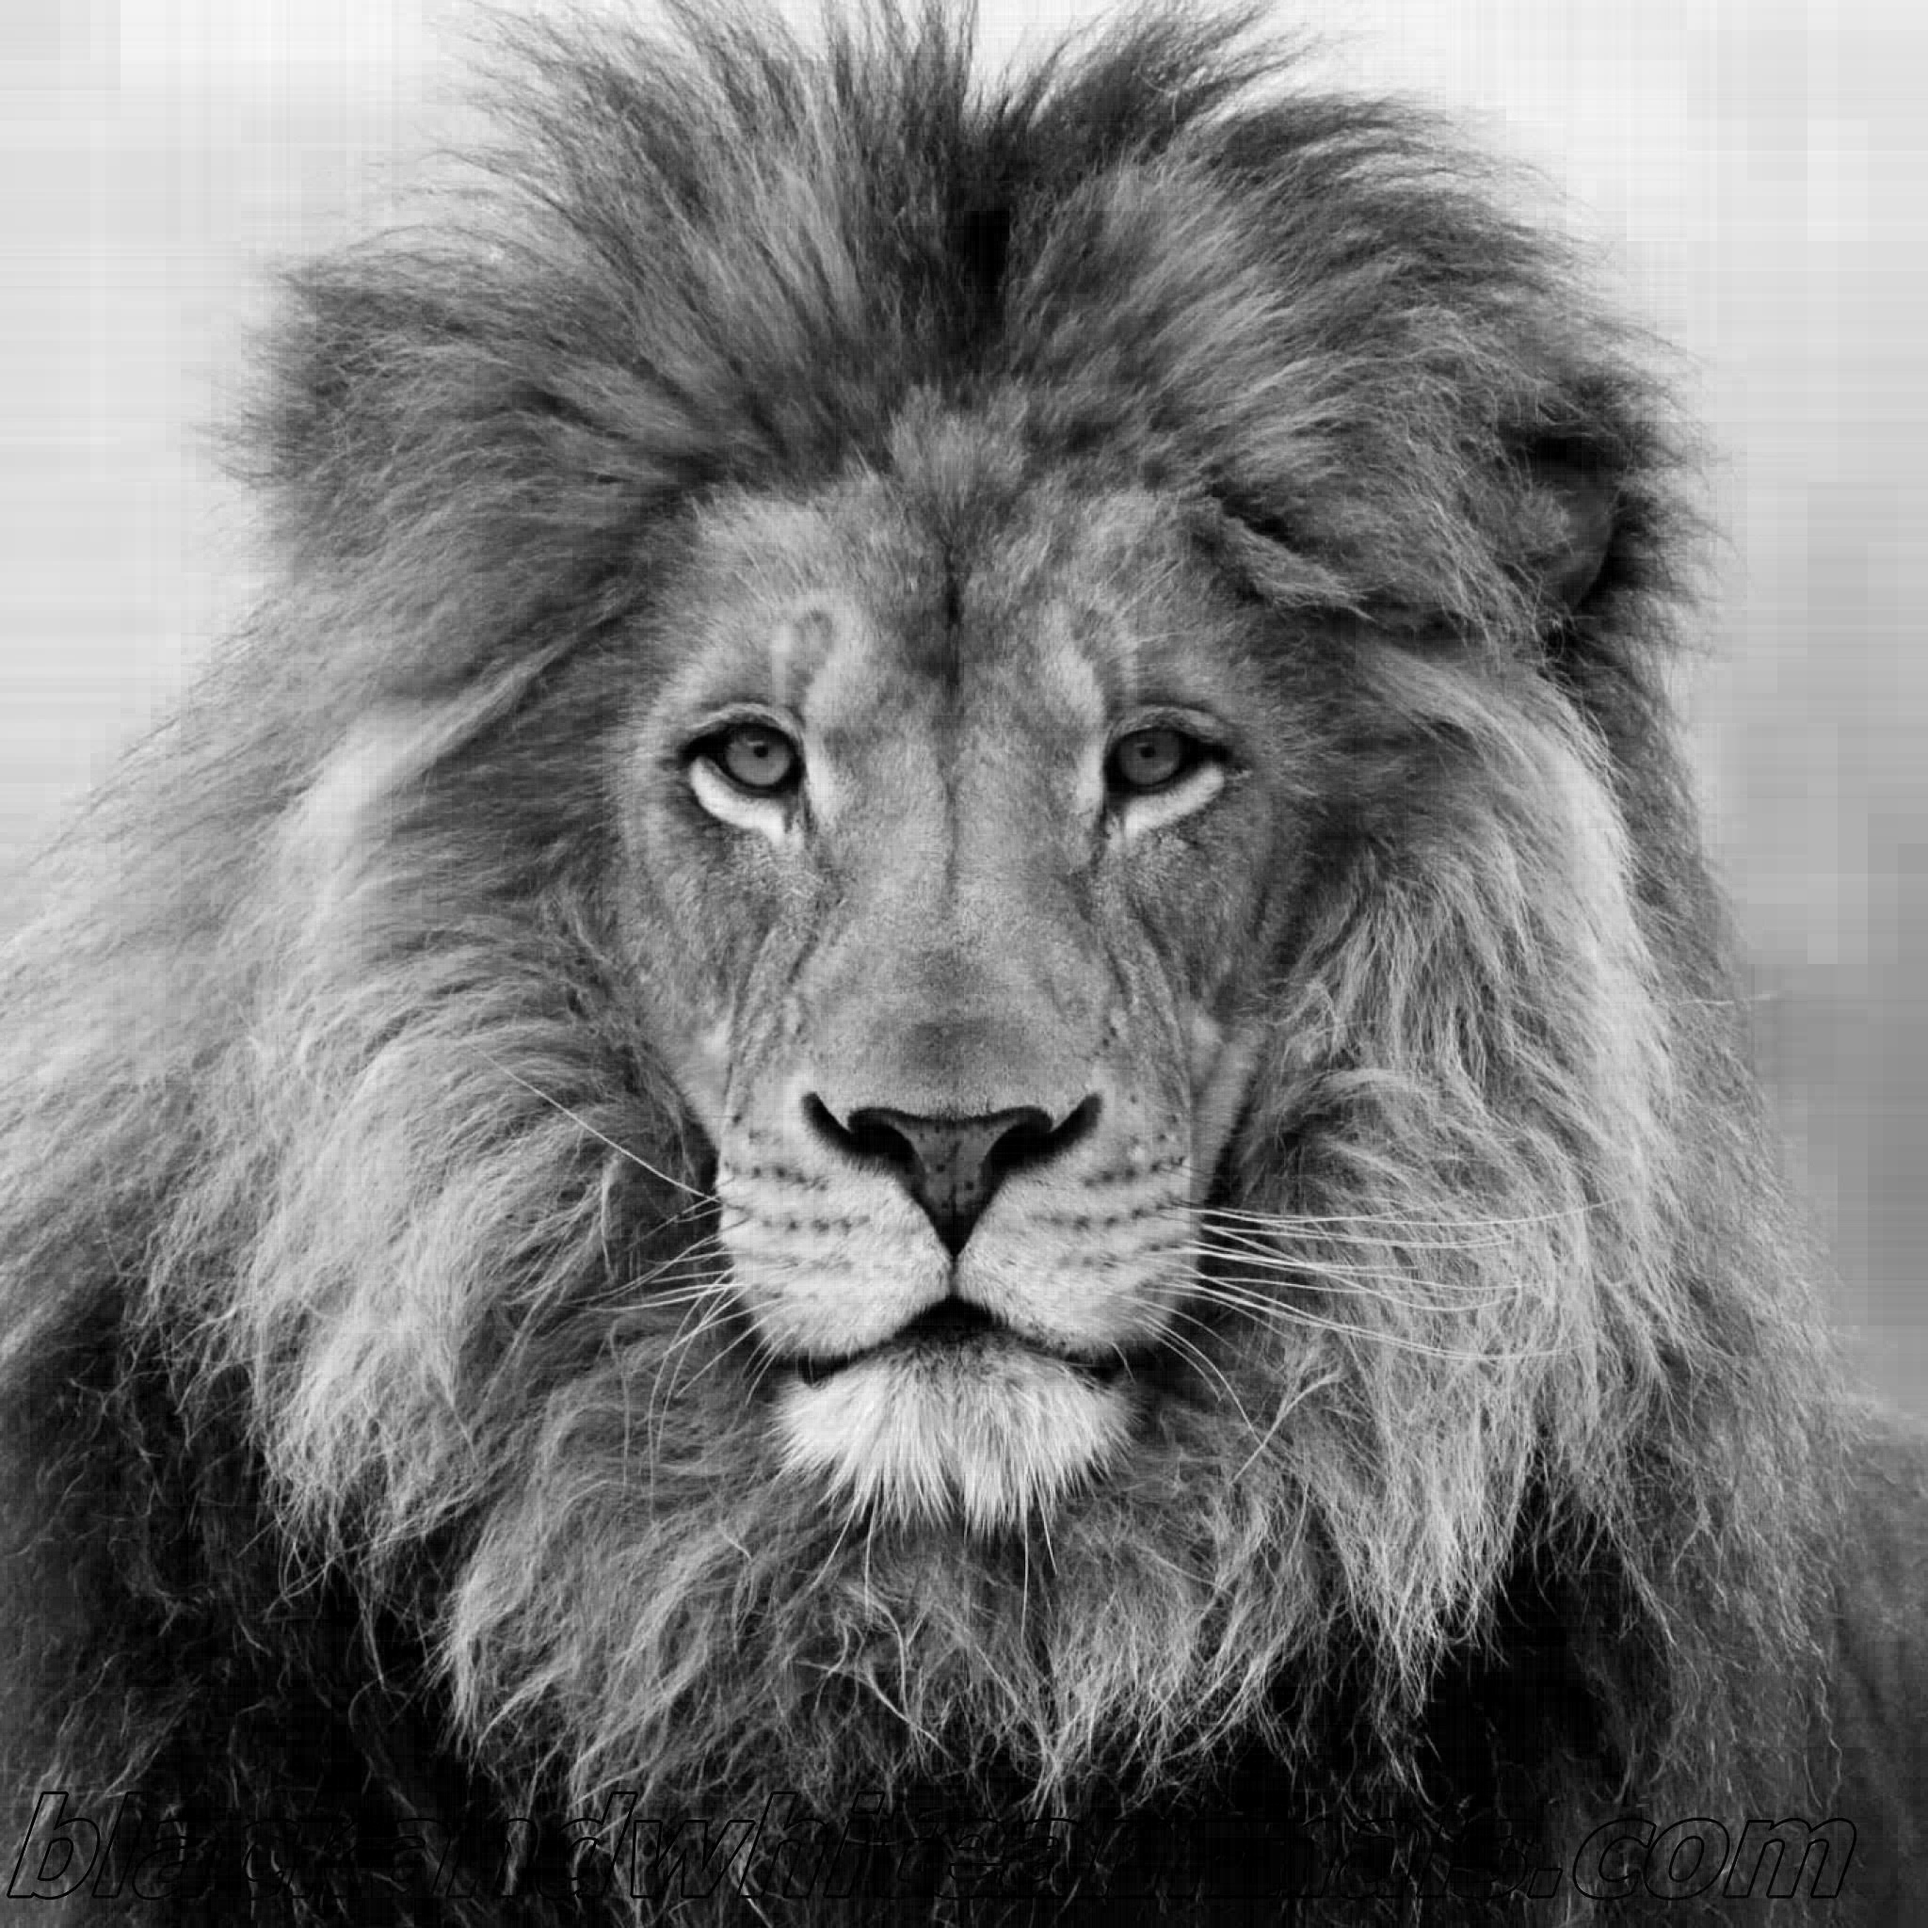
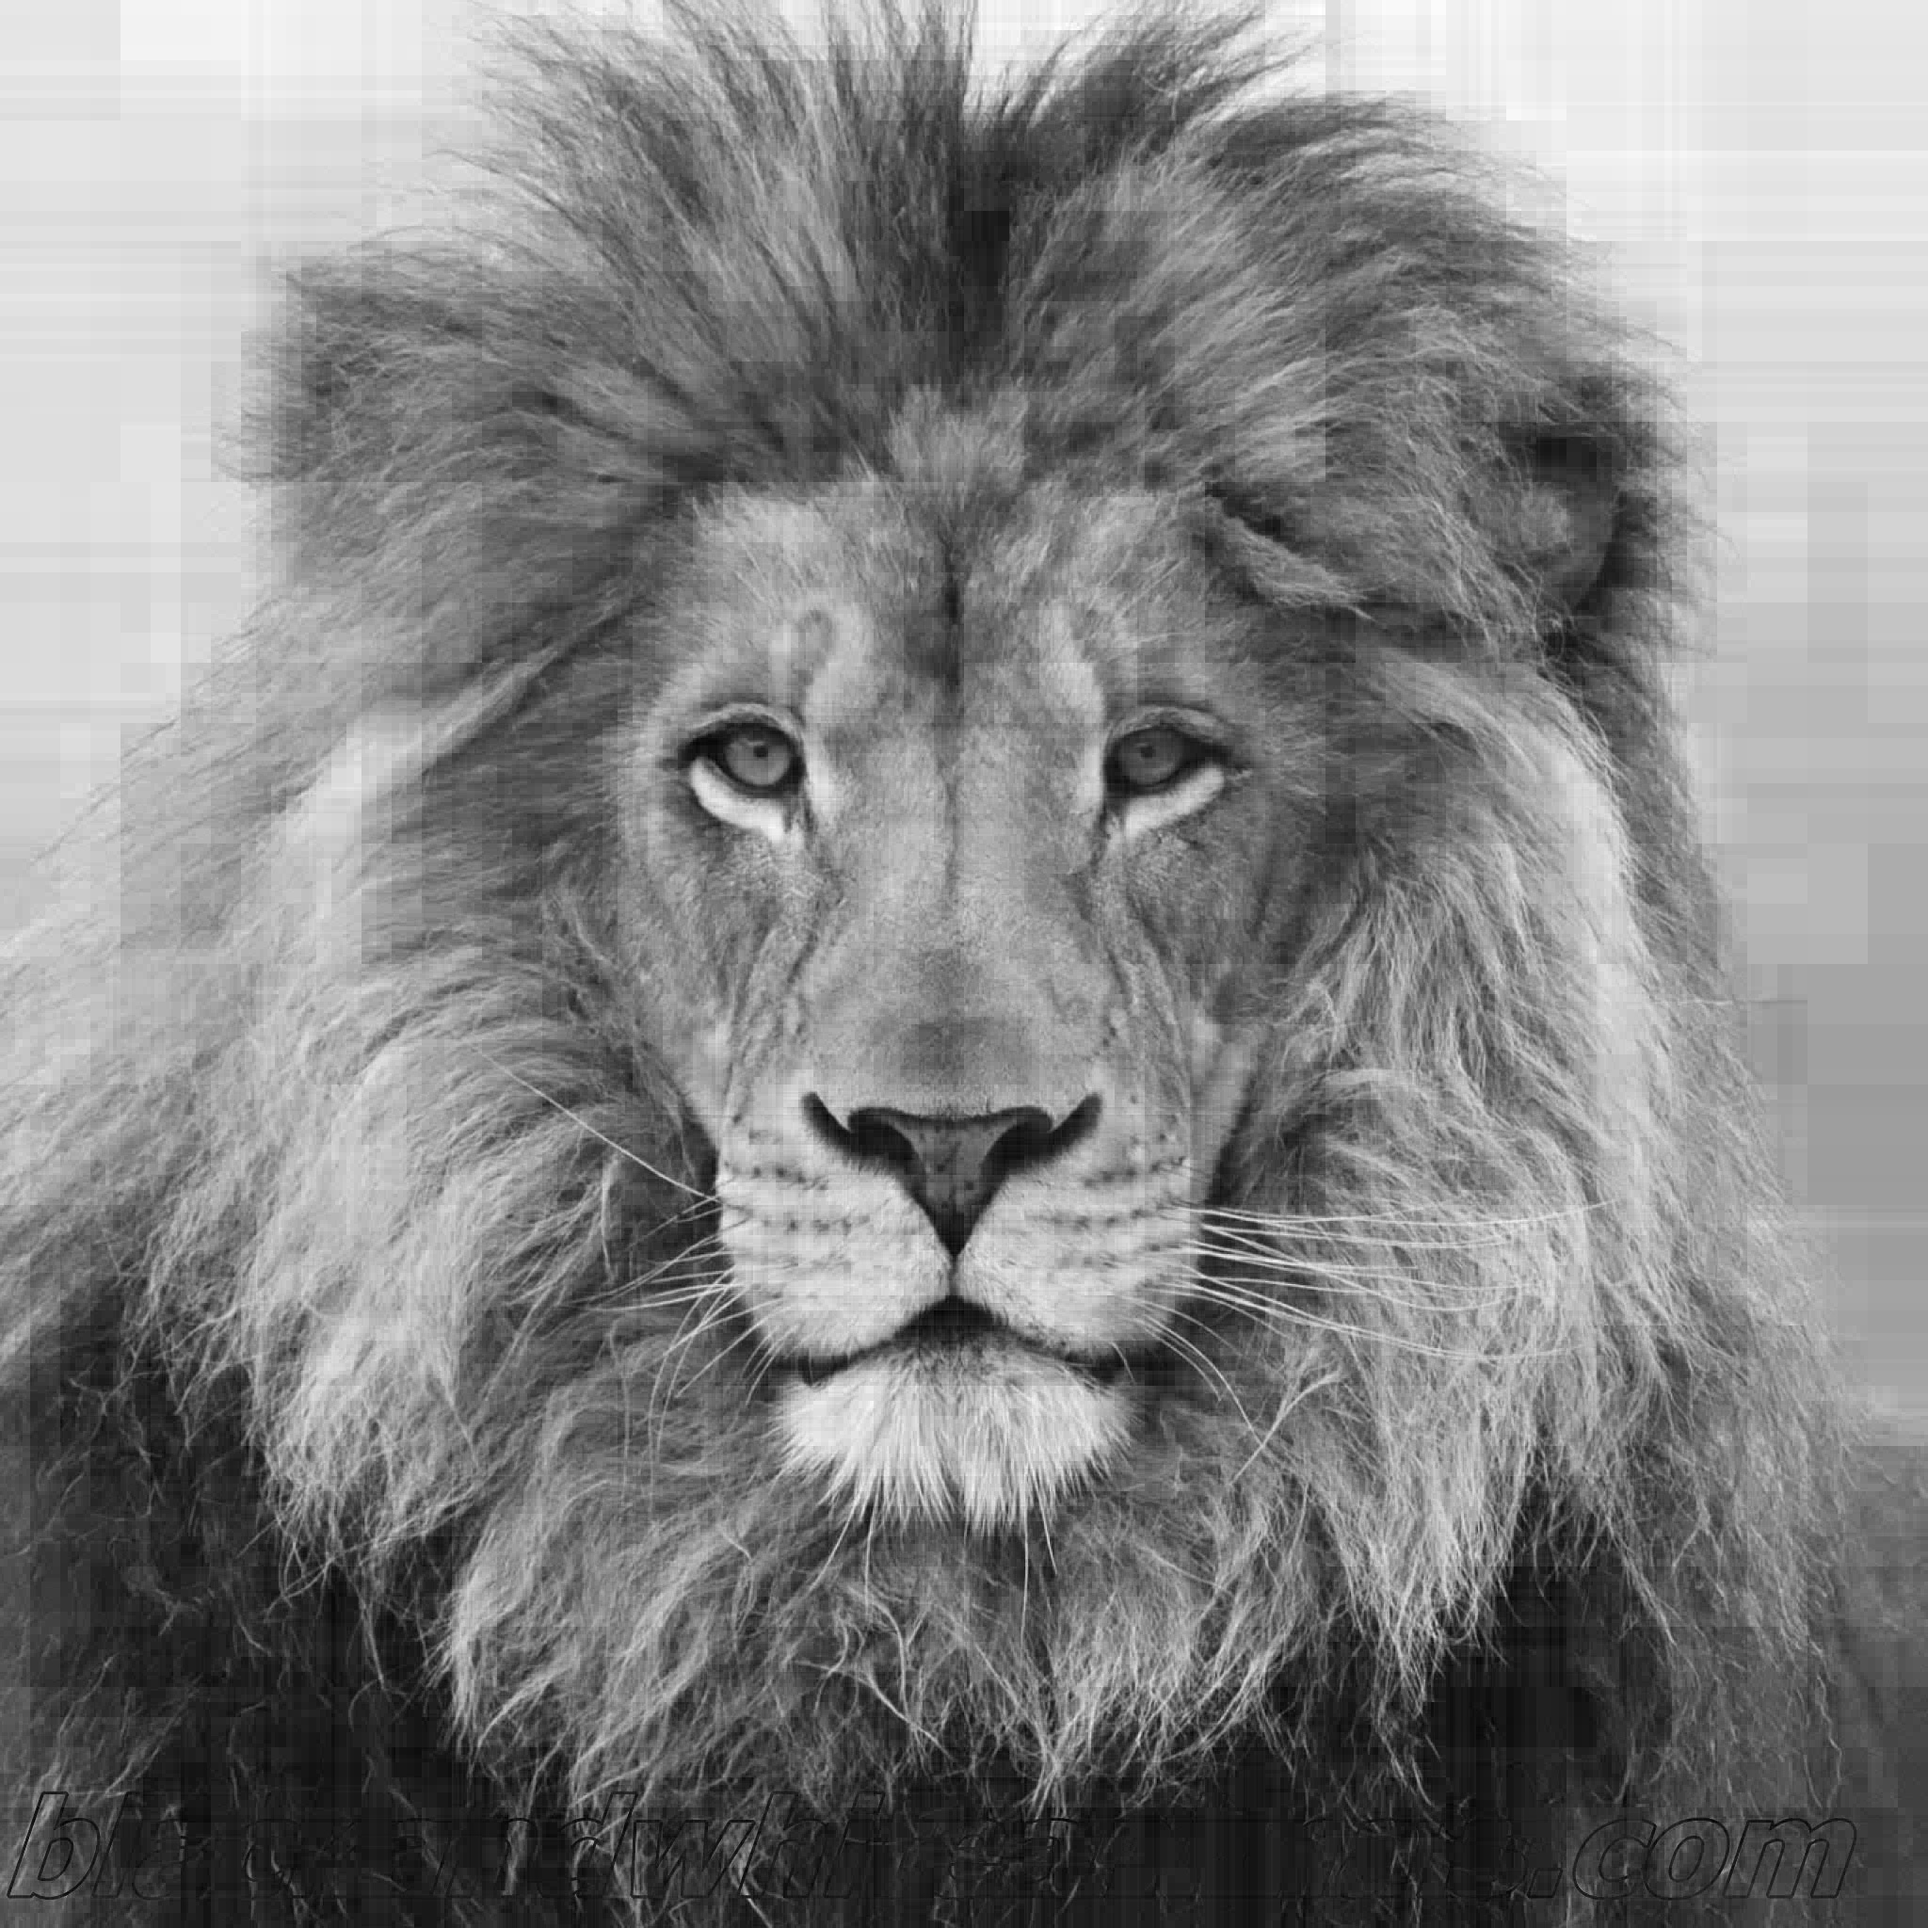
presentable

diff --git a/tfg.py b/tfg.py
@@ -124,10 +124,14 @@ def show_img_list(img_list, title_list, flag_color=0, window_title="Haar Wavelet
 """ Guarda la imagen en el file_name proporcionado.
 - file_name: archivo donde guardar la imagen.
 - img: imagen a guardar.
+- normalize: indica si normalizar la imagen antes de guardarla.
 """
-def save_img(file_name, img):
+def save_img(file_name, img, normalize=False):
     print("Guardando imagen '" + file_name + "'.")
-    im = normaliza(img, file_name)
+    if(normalize):
+        im = normaliza(img, file_name)
+    else:
+        im = img.copy()
     im=np.array(im, dtype=np.uint8)
     if(len(im.shape)==3):
         im = cv2.cvtColor(im, cv2.COLOR_BGR2RGB)
@@ -181,21 +185,22 @@ def haar_row(img):
 """ Calcula la transformada de Haar una imágen.
 - img: imagen original a transformar.
 - image_title(op): título de la imagen. Por defecto 'Imagen'.
-- show (op): mostrar mensaje de texto. Por defecto True.
 """
-def haar_image(img, img_title="Imagen", show=True):
-    if(show):
+def haar_image(img, img_title="Imagen"):
+    if(img_title != ""):
         print("Calculando la transformada de Haar a la imagen '" + img_title +"'.")
 
     if(len(img.shape)==2):
-        by_row = haar_row(img)			# por filas
-        transpose = zip(*by_row)		# transponemos
-        haar_img = haar_row(transpose)	# por columnas
+        by_row = haar_row(img)              # por filas
+        haar_img = zip(*by_row)             # transponemos
+        haar_img = haar_row(haar_img)       # por columnas
+        haar_img = np.array(haar_img)
+        haar_img = np.transpose(haar_img) # transponemos
     else:
         haar_img = np.zeros(img.shape)
         for k in range(3):
-            haar_img[:,:,k] = haar_image(img[:,:,k], img_title, False)
-    return np.array(haar_img)
+            haar_img[:,:,k] = haar_image(img[:,:,k], "")
+    return haar_img
 
 """ Calcula la transformada inversa de Haar. Devuelve la lista resultante.
 - front: primera parte de la lista.
@@ -220,10 +225,9 @@ def reverse_haar(front, the_rest, power):
 Devuelve la imagen original.
 - haar_img: imagen después de la transformada de Haar.
 - image_title(op): título de la imagen. Por defecto 'Imagen'.
-- show (op): mostrar mensaje de texto. Por defecto True.
 """
-def reverse_image(haar_img, img_title="Imagen", show=True):
-    if(show):
+def reverse_image(haar_img, img_title="Imagen"):
+    if(img_title != ""):
         print("Restaurando la imagen original de la transformada de Haar de '" + img_title + "'.")
 
     if(len(haar_img.shape)==2):
@@ -242,6 +246,7 @@ def reverse_image(haar_img, img_title="Imagen", show=True):
             rev_haar.append(reverse_haar(pixels[:1], pixels[1:], power))
 
         rev_haar = np.array(rev_haar)
+        rev_haar = np.transpose(rev_haar)
 
         #rev_haar = normaliza(np.array(rev_haar))
         #rev_haar = rev_haar.astype(np.uint8)
@@ -250,7 +255,7 @@ def reverse_image(haar_img, img_title="Imagen", show=True):
     else:
         rev_haar = np.zeros(haar_img.shape)
         for k in range(3):
-            rev_haar[:,:,k] = reverse_image(haar_img[:,:,k], img_title, False)
+            rev_haar[:,:,k] = reverse_image(haar_img[:,:,k], "")
 
     return rev_haar
 
@@ -261,7 +266,8 @@ Devuelve la imagen después de aplicar el threesholding.
 - image_title(op): título de la imagen. Por defecto 'Imagen'
 """
 def threesholding(haar_img, epsilon, img_title="Imagen"):
-    print("Aplicando algoritmo threesholding a la transformada de Haar de '" + img_title + "'.")
+    print("Aplicando algoritmo threesholding con epsilon={} a la transformada de Haar de '{}'."
+          .format(epsilon, img_title))
     threeshold_img = haar_img.copy()
     count = 0
 
@@ -359,9 +365,9 @@ def crop_img(img, sq=False, img_title="Imagen"):
         else: p=q
 
     if(len(img.shape)==3):
-        print("Recortando imagen '{}' a tamaño {}x{}x3".format(img_title, p, q))
+        print("Recortando imagen '{}' a tamaño ({}, {}, 3).".format(img_title, p, q))
     else:
-        print("Recortando imagen '{}' a tamaño {}x{}".format(img_title, p, q))
+        print("Recortando imagen '{}' a tamaño ({}, {}).".format(img_title, p, q))
 
     a = int((len(img)-p)/2)
     b = int((len(img[0])-q)/2)
@@ -377,31 +383,52 @@ Devuelve la imagen extendida.
 def extend_img(img, sq=False, img_title="Imagen"):
     n = math.log(len(img), 2)
     m = math.log(len(img[0]), 2)
+    to_extend = False
 
-    if(int(n)<n): n = int(n) + 1
-    else: n = int(n)
-    if(int(m)<m): m = int(m) + 1
-    else: m = int(m)
-
-    p = 2**n
-    q = 2**m
-
-    if(sq):     # ajustamos p y q en caso de ser cuadrada
-        if(p>q): q=p
-        else: p=q
-
-    if(len(img.shape)==3):
-        print("Extendiendo imagen '{}' a tamaño {}x{}x3".format(img_title, p, q))
-        ext = np.zeros((p, q, 3), dtype=np.uint8)
+    if(int(n)<n):
+        n = int(n) + 1
+        to_extend = True
     else:
-        print("Extendiendo imagen '{}' a tamaño {}x{}".format(img_title, p, q))
-        ext = np.zeros((p, q), dtype=np.uint8)
+        n = int(n)
+    if(int(m)<m):
+        m = int(m) + 1
+        to_extend = True
+    else:
+        m = int(m)
 
-    for i in range(len(img)):
-        for j in range(len(img[0])):
-            ext[i][j] = img[i][j]
+    if(to_extend):
+        p = 2**n
+        q = 2**m
 
-    return ext
+        if(sq):     # ajustamos p y q en caso de ser cuadrada
+            if(p>q): q=p
+            else: p=q
+
+        if(len(img.shape)==3):
+            print("Extendiendo imagen '{}' a tamaño ({}, {}, 3).".format(img_title, p, q))
+            ext = np.zeros((p, q, 3), dtype=np.float64)
+        else:
+            print("Extendiendo imagen '{}' a tamaño ({}, {}).".format(img_title, p, q))
+            ext = np.zeros((p, q), dtype=np.float64)
+
+        for i in range(len(img)):
+            for j in range(len(img[0])):
+                ext[i][j] = img[i][j]
+
+        return ext
+    else:
+        return img
+
+""" Recorta una imagen a la de tamaño 2^p*2^q más grande dentro de ella.
+Devuelve la imagen recortada.
+- img: imagen a recortar.
+- rows:
+- cols:
+- image_title(op): título de la imagen. Por defecto 'Imagen'.
+"""
+def crop_size(img, rows, cols, img_title="Imagen"):
+    print("Recortando imagen '{}' a tamaño {}.".format(img_title, img.shape))
+    return img[:rows, :cols]
 
 """ Imprime por pantalla el tamaño en bytes de los archivos.
 - file_org: archivo original.
@@ -411,31 +438,26 @@ def diff_size(file_org, file_rev):
     print("El archivo original pesa {} bytes y el greedy {} bytes."
           .format(os.stat(file_org).st_size, os.stat(file_rev).st_size))
 
-def prueba():
-    img = read_img("images/" + img_title, 1)
-    img = extend_img(img, sq=False)
-    show_img(img)
-    #save_img(img_title, img)
-
-
 #######################
 ###       MAIN      ###
 #######################
 
 """ Programa principal. """
 def main():
-    #img_title = input("Image name: ")
-    #img_title = "BigBoiLion.jpg"
+    img_title = "BigBoiLion.jpg"
     #img_title = "lena512.bmp"
     #img_title = "alham.jpg"
-    img_title = "alham_sq.png"
+    #img_title = "alham_crop.jpg"
+    #img_title = "alham_sq.png"
     epsilon = 2.0
     m = 1000000
 
-    img = read_img("images/" + img_title, 1)
+    img = read_img("images/" + img_title, 0)
+    print("Tamaño de la imagen: {}.".format(img.shape))
+    ext = extend_img(img, False, img_title)
 
     # Calculando la transformada de Haar
-    haar_img = haar_image(img, img_title)
+    haar_img = haar_image(ext, img_title)
     # Aplicándole el algoritmo greedy
     greedy_img = threesholding(haar_img, epsilon, img_title)
     #greedy_img = np.array(m_term(haar_img, m, img_title))
@@ -460,12 +482,15 @@ def main():
     err = error(img, rev_img, img_title)
     print("Error medio: {}.".format(round(err, 4)))
 
+    if(rev_img.shape != img.shape):
+        rev_img = crop_size(rev_img, img.shape[0], img.shape[1], img_title)
+
     # Mostramos diferentes imágenes
     show_img_list([img, haar_img, greedy_img, rev_img],
                 ["Original", "2D Haar Transform", "Greedy", "Return to Original"])
 
-    save_img("images/rev_" + img_title, rev_img)
-    save_img("images/greedy_" + img_title, greedy_img)
+    save_img("images/rev_" + img_title, rev_img, True)
+    save_img("images/greedy_" + img_title, greedy_img, False)
 
     diff_size("images/" + img_title, "images/greedy_" + img_title)
 
